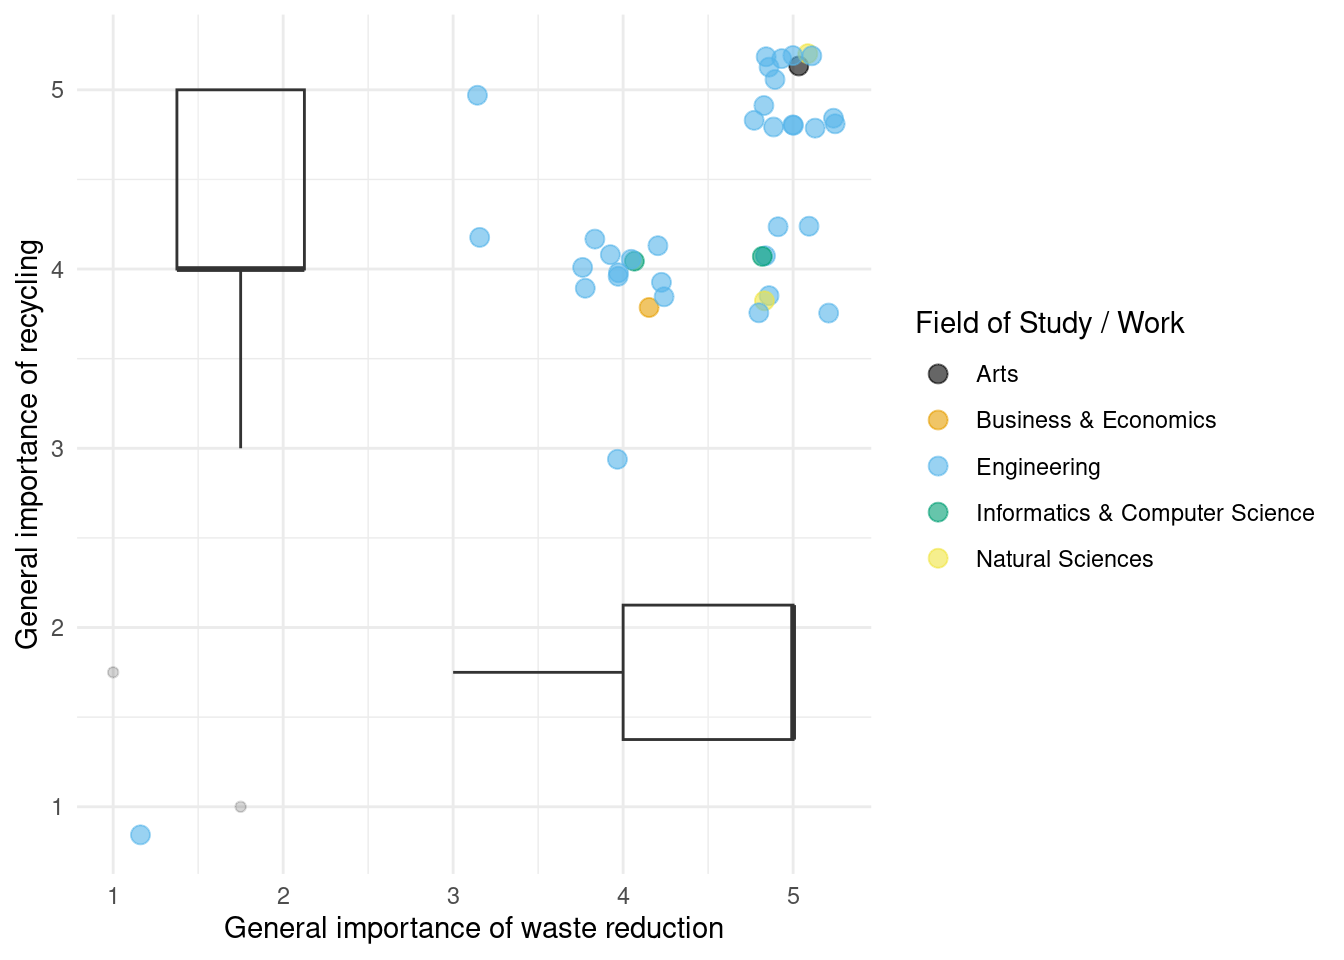
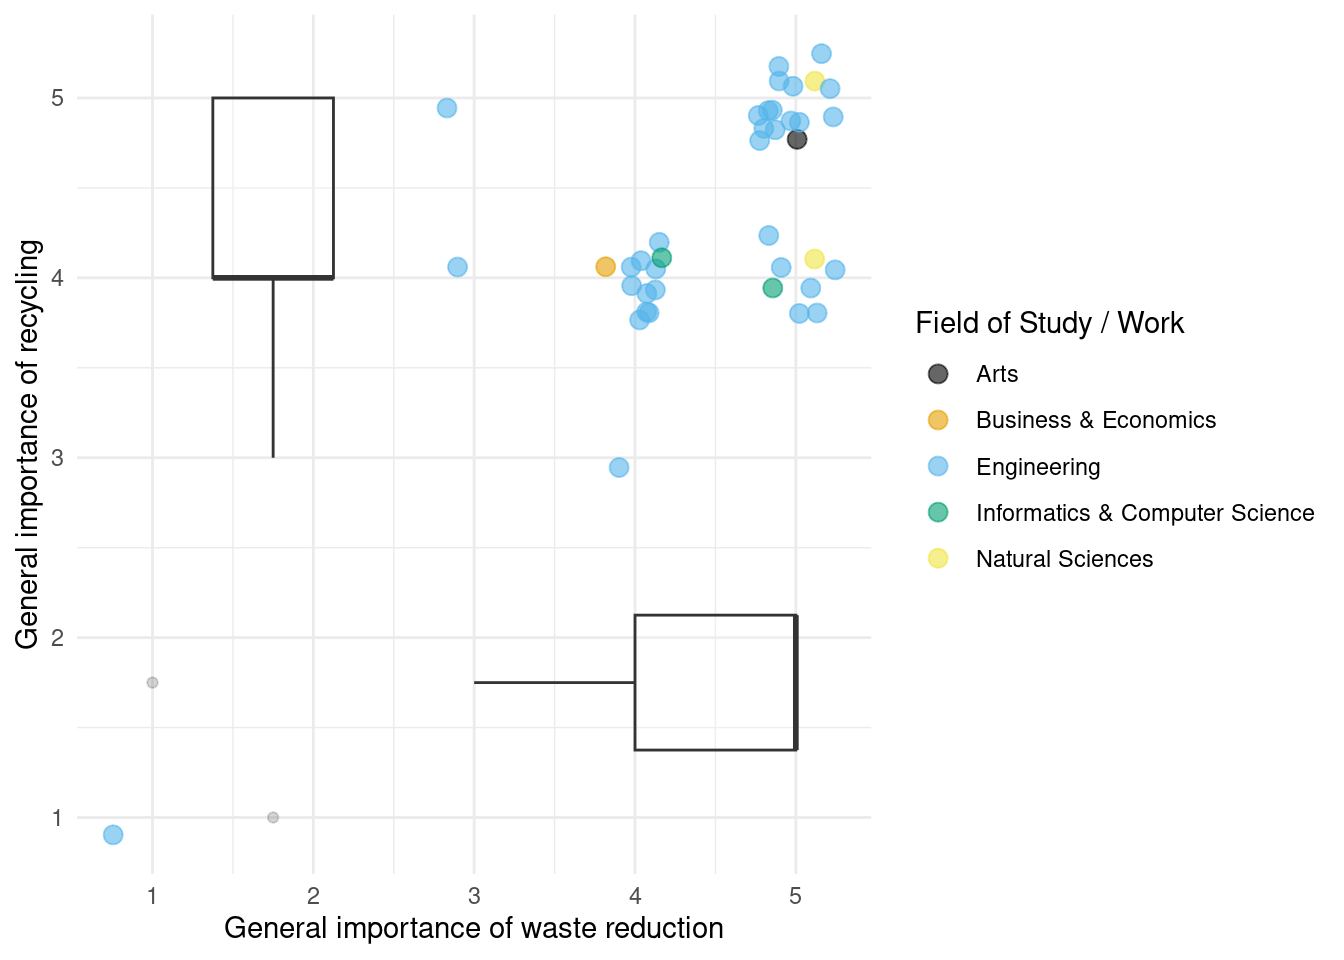
some more plots

diff --git a/docs/index.html b/docs/index.html
@@ -299,6 +299,103 @@ Figure&nbsp;3: Opinions on waste reduction and recycling in general
 <section id="single-use-cup-habits" class="level2">
 <h2 class="anchored" data-anchor-id="single-use-cup-habits">Single-use cup habits</h2>
 <p>Respondents were then asked about their usage of single use cups and how much a ban would affect them in daily life.</p>
+<div class="cell">
+<details class="code-fold">
+<summary>Code</summary>
+<div class="sourceCode cell-code" id="cb5"><pre class="sourceCode r code-with-copy"><code class="sourceCode r"><span id="cb5-1"><a href="#cb5-1" aria-hidden="true" tabindex="-1"></a>df <span class="ot">&lt;-</span> df <span class="sc">|&gt;</span> </span>
+<span id="cb5-2"><a href="#cb5-2" aria-hidden="true" tabindex="-1"></a>  <span class="fu">mutate</span>(<span class="at">singleusecup_frequency =</span> <span class="fu">factor</span>(singleusecup_frequency, <span class="at">levels =</span> <span class="fu">c</span>(<span class="st">"I don't know"</span>, <span class="st">"Multiple times per day"</span>, <span class="st">"Every day"</span>, <span class="st">"About once a week"</span>, <span class="st">"Occasionally"</span>, <span class="st">"Never"</span>))) <span class="sc">|&gt;</span> </span>
+<span id="cb5-3"><a href="#cb5-3" aria-hidden="true" tabindex="-1"></a>  <span class="fu">mutate</span>(<span class="at">singleusecup_reason =</span> <span class="fu">factor</span>(singleusecup_reason, <span class="at">levels =</span> <span class="fu">c</span>(<span class="st">"Convenience"</span>, <span class="st">"Hygiene"</span>, <span class="st">"Aesthetics"</span>, <span class="st">"Price (single-use cups are free as opposed to multi-use cups)"</span>, <span class="st">"I don't think about it"</span>, <span class="st">"I never use single-use cups"</span>)))</span>
+<span id="cb5-4"><a href="#cb5-4" aria-hidden="true" tabindex="-1"></a></span>
+<span id="cb5-5"><a href="#cb5-5" aria-hidden="true" tabindex="-1"></a><span class="fu">ggplot</span>(<span class="at">data =</span> df,</span>
+<span id="cb5-6"><a href="#cb5-6" aria-hidden="true" tabindex="-1"></a>       <span class="at">mapping =</span> <span class="fu">aes</span>(<span class="at">x =</span> singleusecup_frequency,</span>
+<span id="cb5-7"><a href="#cb5-7" aria-hidden="true" tabindex="-1"></a>                     <span class="at">fill =</span> singleusecup_reason)) <span class="sc">+</span></span>
+<span id="cb5-8"><a href="#cb5-8" aria-hidden="true" tabindex="-1"></a>  <span class="fu">geom_bar</span>() <span class="sc">+</span></span>
+<span id="cb5-9"><a href="#cb5-9" aria-hidden="true" tabindex="-1"></a>  <span class="fu">coord_flip</span>() <span class="sc">+</span></span>
+<span id="cb5-10"><a href="#cb5-10" aria-hidden="true" tabindex="-1"></a>  <span class="fu">scale_y_continuous</span>(<span class="at">breaks =</span> <span class="fu">seq</span>(<span class="at">from =</span> <span class="dv">0</span>, <span class="at">to =</span> <span class="dv">100</span>, <span class="at">by =</span> <span class="dv">1</span>)) <span class="sc">+</span></span>
+<span id="cb5-11"><a href="#cb5-11" aria-hidden="true" tabindex="-1"></a>  <span class="fu">scale_fill_colorblind</span>(<span class="at">labels =</span> <span class="fu">c</span>(<span class="st">"Convenience"</span>, <span class="st">"Hygiene"</span>, <span class="st">"Aesthetics"</span>, <span class="st">"Price"</span>, <span class="st">"I never use single-use cups"</span>)) <span class="sc">+</span></span>
+<span id="cb5-12"><a href="#cb5-12" aria-hidden="true" tabindex="-1"></a>  <span class="fu">labs</span>(<span class="at">x =</span> <span class="st">"How often do you buy single-use cups on campus?"</span>,</span>
+<span id="cb5-13"><a href="#cb5-13" aria-hidden="true" tabindex="-1"></a>       <span class="at">y =</span> <span class="st">"Number of responses"</span>,</span>
+<span id="cb5-14"><a href="#cb5-14" aria-hidden="true" tabindex="-1"></a>       <span class="at">fill =</span> <span class="st">"Main reason"</span>) <span class="sc">+</span></span>
+<span id="cb5-15"><a href="#cb5-15" aria-hidden="true" tabindex="-1"></a>  <span class="fu">theme_minimal</span>()</span></code><button title="Copy to Clipboard" class="code-copy-button"><i class="bi"></i></button></pre></div>
+</details>
+<div class="cell-output-display">
+<div id="fig-habits" class="quarto-figure quarto-figure-center quarto-float anchored">
+<figure class="quarto-float quarto-float-fig figure">
+<div aria-describedby="fig-habits-caption-0ceaefa1-69ba-4598-a22c-09a6ac19f8ca">
+<img src="index_files/figure-html/fig-habits-1.png" class="img-fluid figure-img" width="672">
+</div>
+<figcaption class="quarto-float-caption-bottom quarto-float-caption quarto-float-fig" id="fig-habits-caption-0ceaefa1-69ba-4598-a22c-09a6ac19f8ca">
+Figure&nbsp;4: Single-use cup usage frequency and main reason
+</figcaption>
+</figure>
+</div>
+</div>
+</div>
+<div class="cell">
+<details class="code-fold">
+<summary>Code</summary>
+<div class="sourceCode cell-code" id="cb6"><pre class="sourceCode r code-with-copy"><code class="sourceCode r"><span id="cb6-1"><a href="#cb6-1" aria-hidden="true" tabindex="-1"></a><span class="fu">ggplot</span>(<span class="at">data =</span> df, </span>
+<span id="cb6-2"><a href="#cb6-2" aria-hidden="true" tabindex="-1"></a>       <span class="at">mapping =</span> <span class="fu">aes</span>(<span class="at">x =</span> <span class="fu">reorder</span>(institution, institution, length),</span>
+<span id="cb6-3"><a href="#cb6-3" aria-hidden="true" tabindex="-1"></a>                     <span class="at">fill =</span> field)) <span class="sc">+</span></span>
+<span id="cb6-4"><a href="#cb6-4" aria-hidden="true" tabindex="-1"></a>  <span class="fu">geom_bar</span>() <span class="sc">+</span></span>
+<span id="cb6-5"><a href="#cb6-5" aria-hidden="true" tabindex="-1"></a>  <span class="fu">coord_flip</span>() <span class="sc">+</span></span>
+<span id="cb6-6"><a href="#cb6-6" aria-hidden="true" tabindex="-1"></a>  <span class="fu">scale_y_continuous</span>(<span class="at">breaks =</span> <span class="fu">seq</span>(<span class="at">from =</span> <span class="dv">0</span>, <span class="at">to =</span> <span class="dv">100</span>, <span class="at">by =</span> <span class="dv">2</span>)) <span class="sc">+</span></span>
+<span id="cb6-7"><a href="#cb6-7" aria-hidden="true" tabindex="-1"></a>  <span class="fu">labs</span>(<span class="at">x =</span> <span class="st">"Institution"</span>,</span>
+<span id="cb6-8"><a href="#cb6-8" aria-hidden="true" tabindex="-1"></a>       <span class="at">y =</span> <span class="st">"Number of responses"</span>) <span class="sc">+</span></span>
+<span id="cb6-9"><a href="#cb6-9" aria-hidden="true" tabindex="-1"></a>  <span class="fu">theme_minimal</span>() <span class="sc">+</span></span>
+<span id="cb6-10"><a href="#cb6-10" aria-hidden="true" tabindex="-1"></a>  <span class="fu">scale_fill_colorblind</span>() <span class="sc">+</span></span>
+<span id="cb6-11"><a href="#cb6-11" aria-hidden="true" tabindex="-1"></a>  <span class="fu">theme</span>(<span class="at">legend.position =</span> <span class="st">"none"</span>)</span>
+<span id="cb6-12"><a href="#cb6-12" aria-hidden="true" tabindex="-1"></a></span>
+<span id="cb6-13"><a href="#cb6-13" aria-hidden="true" tabindex="-1"></a></span>
+<span id="cb6-14"><a href="#cb6-14" aria-hidden="true" tabindex="-1"></a></span>
+<span id="cb6-15"><a href="#cb6-15" aria-hidden="true" tabindex="-1"></a><span class="fu">ggplot</span>(<span class="at">data =</span> df) <span class="sc">+</span></span>
+<span id="cb6-16"><a href="#cb6-16" aria-hidden="true" tabindex="-1"></a>  <span class="fu">geom_jitter</span>(<span class="at">mapping =</span> <span class="fu">aes</span>(<span class="at">x =</span> singleusecup_ban_impact,</span>
+<span id="cb6-17"><a href="#cb6-17" aria-hidden="true" tabindex="-1"></a>                            <span class="at">y =</span> singleusecup_frequency,</span>
+<span id="cb6-18"><a href="#cb6-18" aria-hidden="true" tabindex="-1"></a>                            <span class="at">color =</span> singleusecup_reason),</span>
+<span id="cb6-19"><a href="#cb6-19" aria-hidden="true" tabindex="-1"></a>              <span class="at">size =</span> <span class="dv">3</span>, <span class="at">alpha =</span> <span class="fl">0.6</span>, <span class="at">width =</span> <span class="fl">0.2</span>, <span class="at">height =</span> <span class="fl">0.2</span>) <span class="sc">+</span></span>
+<span id="cb6-20"><a href="#cb6-20" aria-hidden="true" tabindex="-1"></a>  <span class="fu">geom_boxplot</span>(<span class="at">mapping =</span> <span class="fu">aes</span>(<span class="at">x =</span> singleusecup_ban_impact),</span>
+<span id="cb6-21"><a href="#cb6-21" aria-hidden="true" tabindex="-1"></a>               <span class="at">alpha =</span> <span class="fl">0.2</span>, <span class="at">position =</span> <span class="fu">position_nudge</span>(<span class="at">y=</span><span class="fl">0.75</span>), <span class="at">width =</span> <span class="fl">0.5</span>) <span class="sc">+</span></span>
+<span id="cb6-22"><a href="#cb6-22" aria-hidden="true" tabindex="-1"></a>  <span class="fu">scale_x_continuous</span>(<span class="at">breaks =</span> <span class="fu">seq</span>(<span class="at">from =</span> <span class="dv">0</span>, <span class="at">to =</span> <span class="dv">100</span>, <span class="at">by =</span> <span class="dv">1</span>)) <span class="sc">+</span></span>
+<span id="cb6-23"><a href="#cb6-23" aria-hidden="true" tabindex="-1"></a>  <span class="fu">scale_color_colorblind</span>(<span class="at">labels =</span> <span class="fu">c</span>(<span class="st">"Convenience"</span>, <span class="st">"Hygiene"</span>, <span class="st">"Aesthetics"</span>, <span class="st">"Price"</span>, <span class="st">"I never use single-use cups"</span>)) <span class="sc">+</span></span>
+<span id="cb6-24"><a href="#cb6-24" aria-hidden="true" tabindex="-1"></a>  <span class="fu">labs</span>(<span class="at">x =</span> <span class="st">"How would a ban impact your daily life?"</span>,</span>
+<span id="cb6-25"><a href="#cb6-25" aria-hidden="true" tabindex="-1"></a>       <span class="at">y =</span> <span class="st">"How often do you buy single-use cups on campus?"</span>,</span>
+<span id="cb6-26"><a href="#cb6-26" aria-hidden="true" tabindex="-1"></a>       <span class="at">color =</span> <span class="st">"Main reason"</span>) <span class="sc">+</span></span>
+<span id="cb6-27"><a href="#cb6-27" aria-hidden="true" tabindex="-1"></a>  <span class="fu">theme_minimal</span>()</span></code><button title="Copy to Clipboard" class="code-copy-button"><i class="bi"></i></button></pre></div>
+</details>
+<div id="fig-impact" class="cell quarto-figure quarto-figure-center quarto-float anchored">
+<figure class="quarto-float quarto-float-fig figure">
+<div aria-describedby="fig-impact-caption-0ceaefa1-69ba-4598-a22c-09a6ac19f8ca">
+<div class="cell-output-display">
+<div id="fig-impact-1" class="quarto-figure quarto-figure-center quarto-float anchored" width="672">
+<figure class="quarto-float quarto-subfloat-fig figure">
+<div aria-describedby="fig-impact-1-caption-0ceaefa1-69ba-4598-a22c-09a6ac19f8ca">
+<img src="index_files/figure-html/fig-impact-1.png" id="fig-impact-1" class="img-fluid figure-img" data-ref-parent="fig-impact" width="672">
+</div>
+<figcaption class="quarto-float-caption-bottom quarto-subfloat-caption quarto-subfloat-fig" id="fig-impact-1-caption-0ceaefa1-69ba-4598-a22c-09a6ac19f8ca">
+(a)
+</figcaption>
+</figure>
+</div>
+</div>
+<div class="cell-output-display">
+<div id="fig-impact-2" class="quarto-figure quarto-figure-center quarto-float anchored">
+<figure class="quarto-float quarto-subfloat-fig figure">
+<div aria-describedby="fig-impact-2-caption-0ceaefa1-69ba-4598-a22c-09a6ac19f8ca">
+<img src="index_files/figure-html/fig-impact-2.png" class="img-fluid figure-img" data-ref-parent="fig-impact" width="672">
+</div>
+<figcaption class="quarto-float-caption-bottom quarto-subfloat-caption quarto-subfloat-fig" id="fig-impact-2-caption-0ceaefa1-69ba-4598-a22c-09a6ac19f8ca">
+(b) Age distribution of respondents
+</figcaption>
+</figure>
+</div>
+</div>
+</div>
+<figcaption class="quarto-float-caption-bottom quarto-float-caption quarto-float-fig" id="fig-impact-caption-0ceaefa1-69ba-4598-a22c-09a6ac19f8ca">
+Figure&nbsp;5: Single-use cup usage frequency and main reason
+</figcaption>
+</figure>
+</div>
+</div>
 </section>
 <section id="opinions-on-a-ban-on-single-use-cups" class="level2">
 <h2 class="anchored" data-anchor-id="opinions-on-a-ban-on-single-use-cups">Opinions on a ban on single-use cups</h2>
